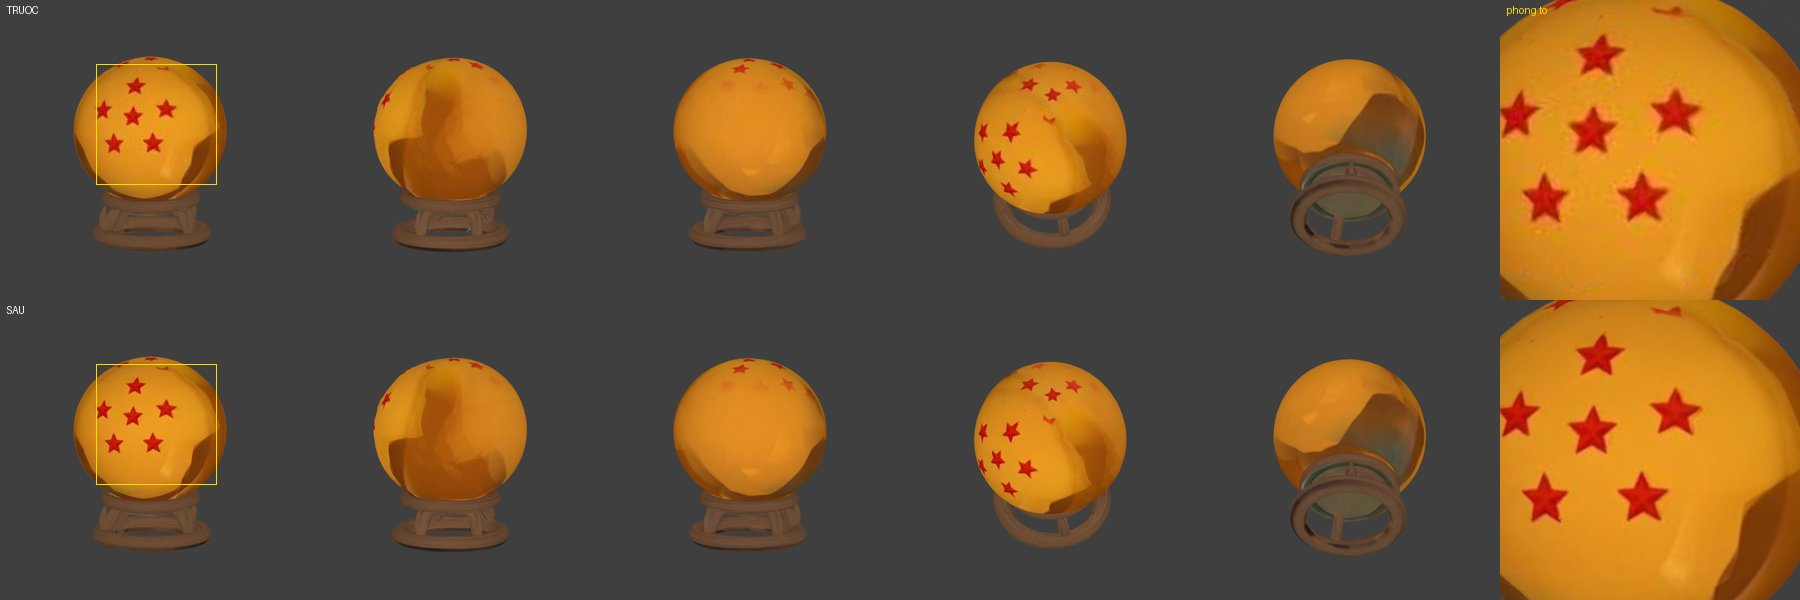
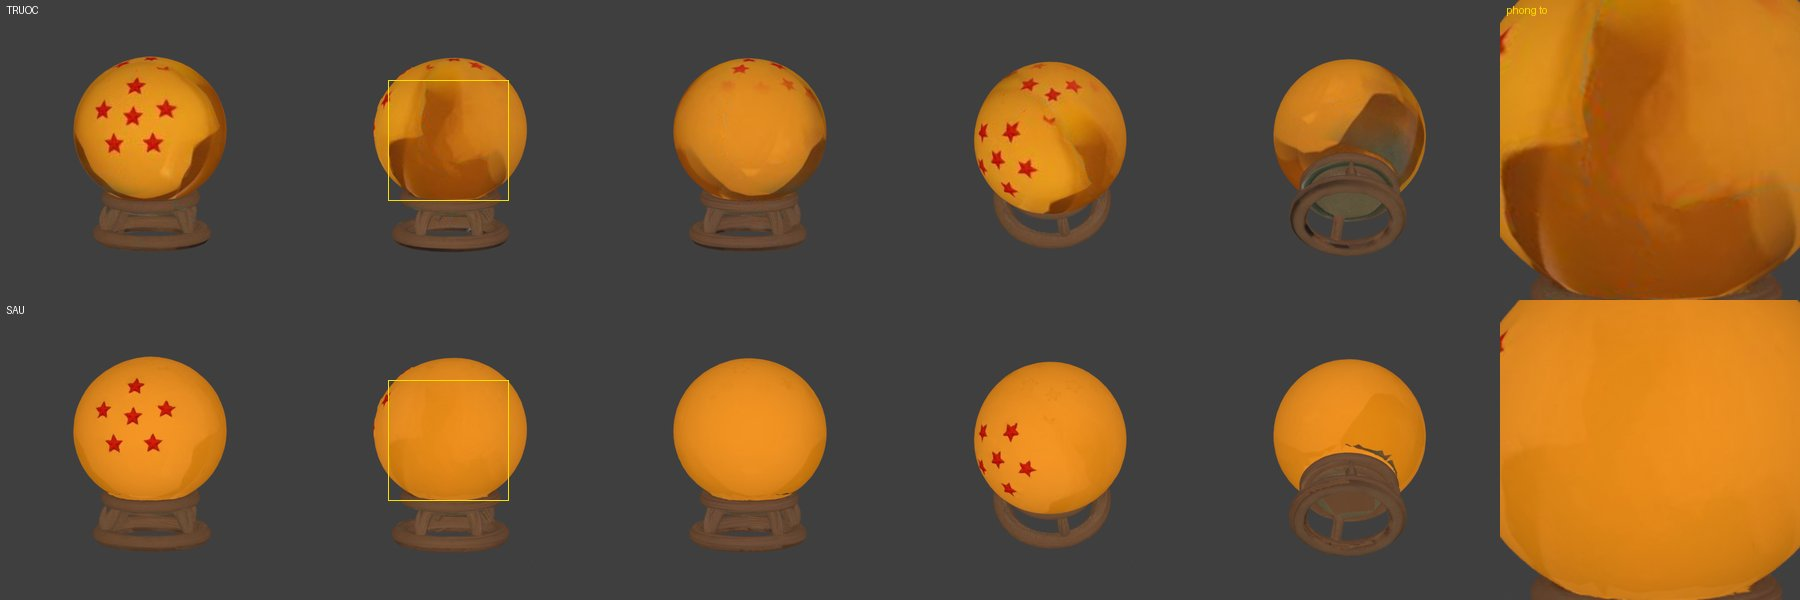
Tô lại X04 quả cầu ngọc theo ảnh tham chiếu
Claude-Session: https://claude.ai/code/session_01QKQCdbFEbjmsCvSE7CCduS

diff --git a/Tools/Blender/repaint_items_meshy.py b/Tools/Blender/repaint_items_meshy.py
@@ -101,6 +101,23 @@ RULES = {
     "L22_ban_do_co": [
         dict(texels=lambda lab, p: lab[:, 0] > 45, act="tint", color=(204, 176, 128), keep=0.3),
     ],
+    # qua cau ngoc (ref_rat_hiem.png): cam trong deu, 6 sao do chi o mat truoc, de go nau.
+    # Meshy ve san mang cam sam loang (bong khuc xa), manh sao lac o dinh/mat sau, dia xam trong de.
+    "X04_qua_cau_ngoc": [
+        dict(faces=lambda F: F.h > 0.3,
+             texels=lambda lab, p: ~((chroma(lab) > 35) & ((hue(lab) < 45) | (hue(lab) > 340)) & (lab[:, 1] > 35)),
+             act="tint", color=(240, 146, 34), keep=0.15),
+        dict(faces=lambda F: (F.h > 0.3) & (F.ny > -0.35),
+             texels=lambda lab, p: (chroma(lab) > 35) & (lab[:, 1] > 35),
+             act="tint", color=(240, 146, 34), keep=0.15),
+        dict(faces=lambda F: F.h <= 0.3,
+             texels=lambda lab, p: (chroma(lab) > 38) & (hue(lab) > 40) & (hue(lab) < 90),
+             act="tint", color=(240, 146, 34), keep=0.15),
+        dict(faces=lambda F: F.h <= 0.3,
+             texels=lambda lab, p: (chroma(lab) < 16) | ((hue(lab) > 110) & (hue(lab) < 280)),
+             act="tint", color=(112, 76, 50), keep=0.3),
+        dict(faces=lambda F: (F.h <= 0.3) & (F.r < 0.35), act="tint", color=(112, 76, 50), keep=0.3),  # dia giua de
+    ],
 }
 
 
